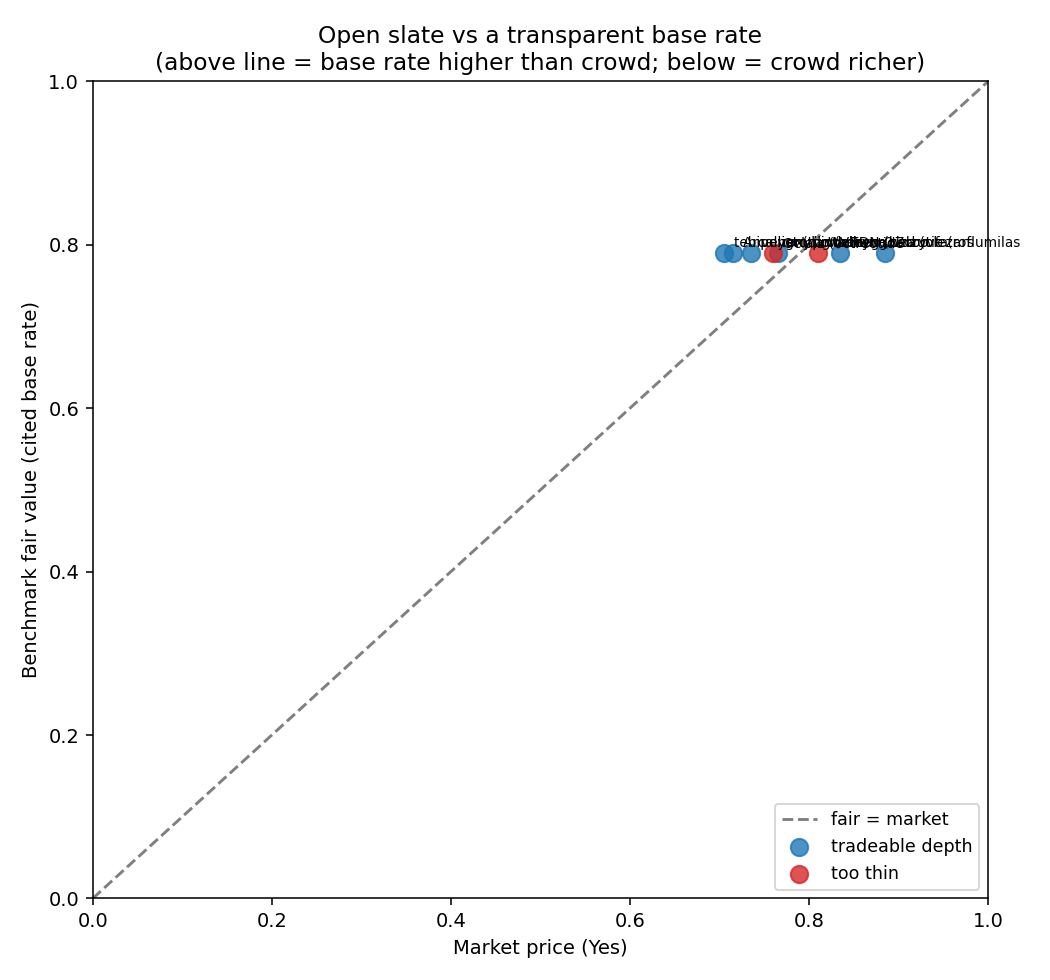
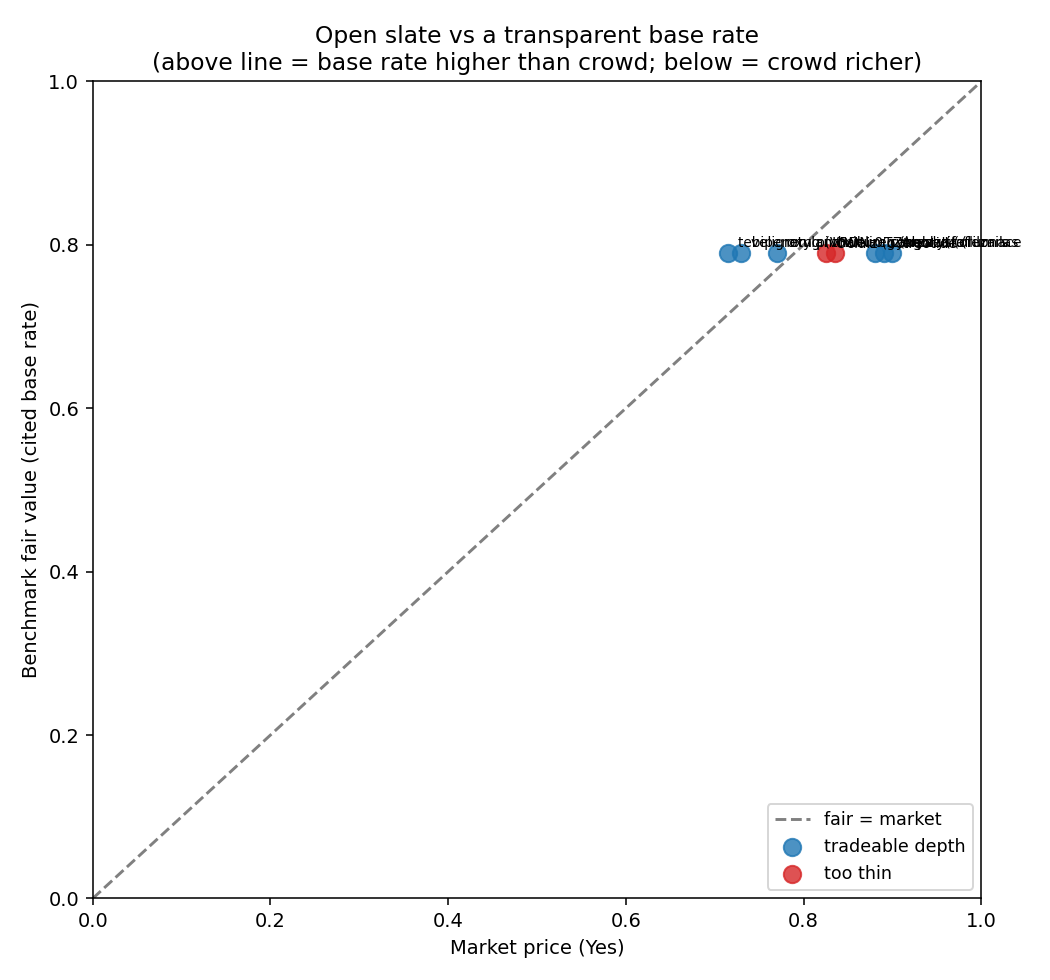
Daily refresh: re-pull live prices, recompute, add daily-refresh workflow
- Re-pulled the live Polymarket slate (still 34 resolved / 10 open; no new resolution). Oclaiz (PDUFA today) remains open at ~0.825; Arcalyst repriced 0.715 -> 0.90.
- Recomputed all metrics, figures, benchmark, edge_open.csv, findings.json on the fresh prices.
- audit.py section 8: repoint the stale README string-match checks (the README is now a conclusion-free data-pipeline doc) to assert the data facts directly and to check LIMITATIONS.md carries the leakage caveat. All checks pass.
- Add .github/workflows/daily-refresh.yml: scheduled job that re-runs the pipeline daily, gates on audit, and commits refreshed data. Flags any market whose close-state changed so the manual enrichment outcome can be updated.

diff --git a/audit.py b/audit.py
@@ -256,20 +256,29 @@ def main():
         check("pdufa 'matches' are within 4d of market date", True)
 
     print("\n== 8. Docs vs data ==")
+    # The README is a data-pipeline doc and deliberately states no conclusions;
+    # the contaminated cohort facts live in LIMITATIONS.md/FINDINGS.md with the
+    # leakage framing. So this section asserts the DATA facts directly (for
+    # reproducibility) and checks that the doc which DOES discuss them carries the
+    # leakage caveat — it no longer string-matches conclusions in the README.
     closed = proc[proc["is_closed"]]
     drug_res = closed[~closed["slug"].isin(THEMATIC)]
     n_res = len(drug_res)
     crl_n = (drug_res["outcome"] == "CRL").sum()
     cmc_crl = sum(1 for r in edata if r.get("outcome") == "CRL"
                   and r.get("crl_reason_class") == "CMC/manufacturing")
-    readme = open("README.md", encoding="utf-8").read()
-    check("README '6 ... CMC' matches data", ("6 were CMC" in readme) == (cmc_crl == 6),
+    check("data: 6 of the resolved CRLs are CMC/manufacturing", cmc_crl == 6,
           f"data CMC CRLs={cmc_crl}")
     cmc_res = drug_res[drug_res["risk_category"] == "CMC/manufacturing refile"]
     cmc_yes = (cmc_res["resolved_yes"].str.lower() == "true").sum()
-    check("README '1 / 8 = 12.5%' matches data",
-          ("1 / 8 = 12.5%" in readme) and (cmc_yes == 1) and (len(cmc_res) == 8),
+    check("data: contaminated CMC-refile cohort is 1/8 on-time", cmc_yes == 1 and len(cmc_res) == 8,
           f"CMC refile resolved on-time={cmc_yes}/{len(cmc_res)}")
+    lim = open("LIMITATIONS.md", encoding="utf-8").read().lower()
+    check("LIMITATIONS.md flags the 1/8 cohort as look-ahead-contaminated",
+          ("1/8" in lim or "1 / 8" in lim) and "look-ahead" in lim)
+    readme = open("README.md", encoding="utf-8").read()
+    check("README points to FINDINGS/LIMITATIONS instead of stating conclusions",
+          "FINDINGS.md" in readme and "LIMITATIONS.md" in readme and "1 / 8 = 12.5%" not in readme)
 
     # ===================================================================== #
     #  VALIDITY LAYER (B) — sections 9-11                                    #
